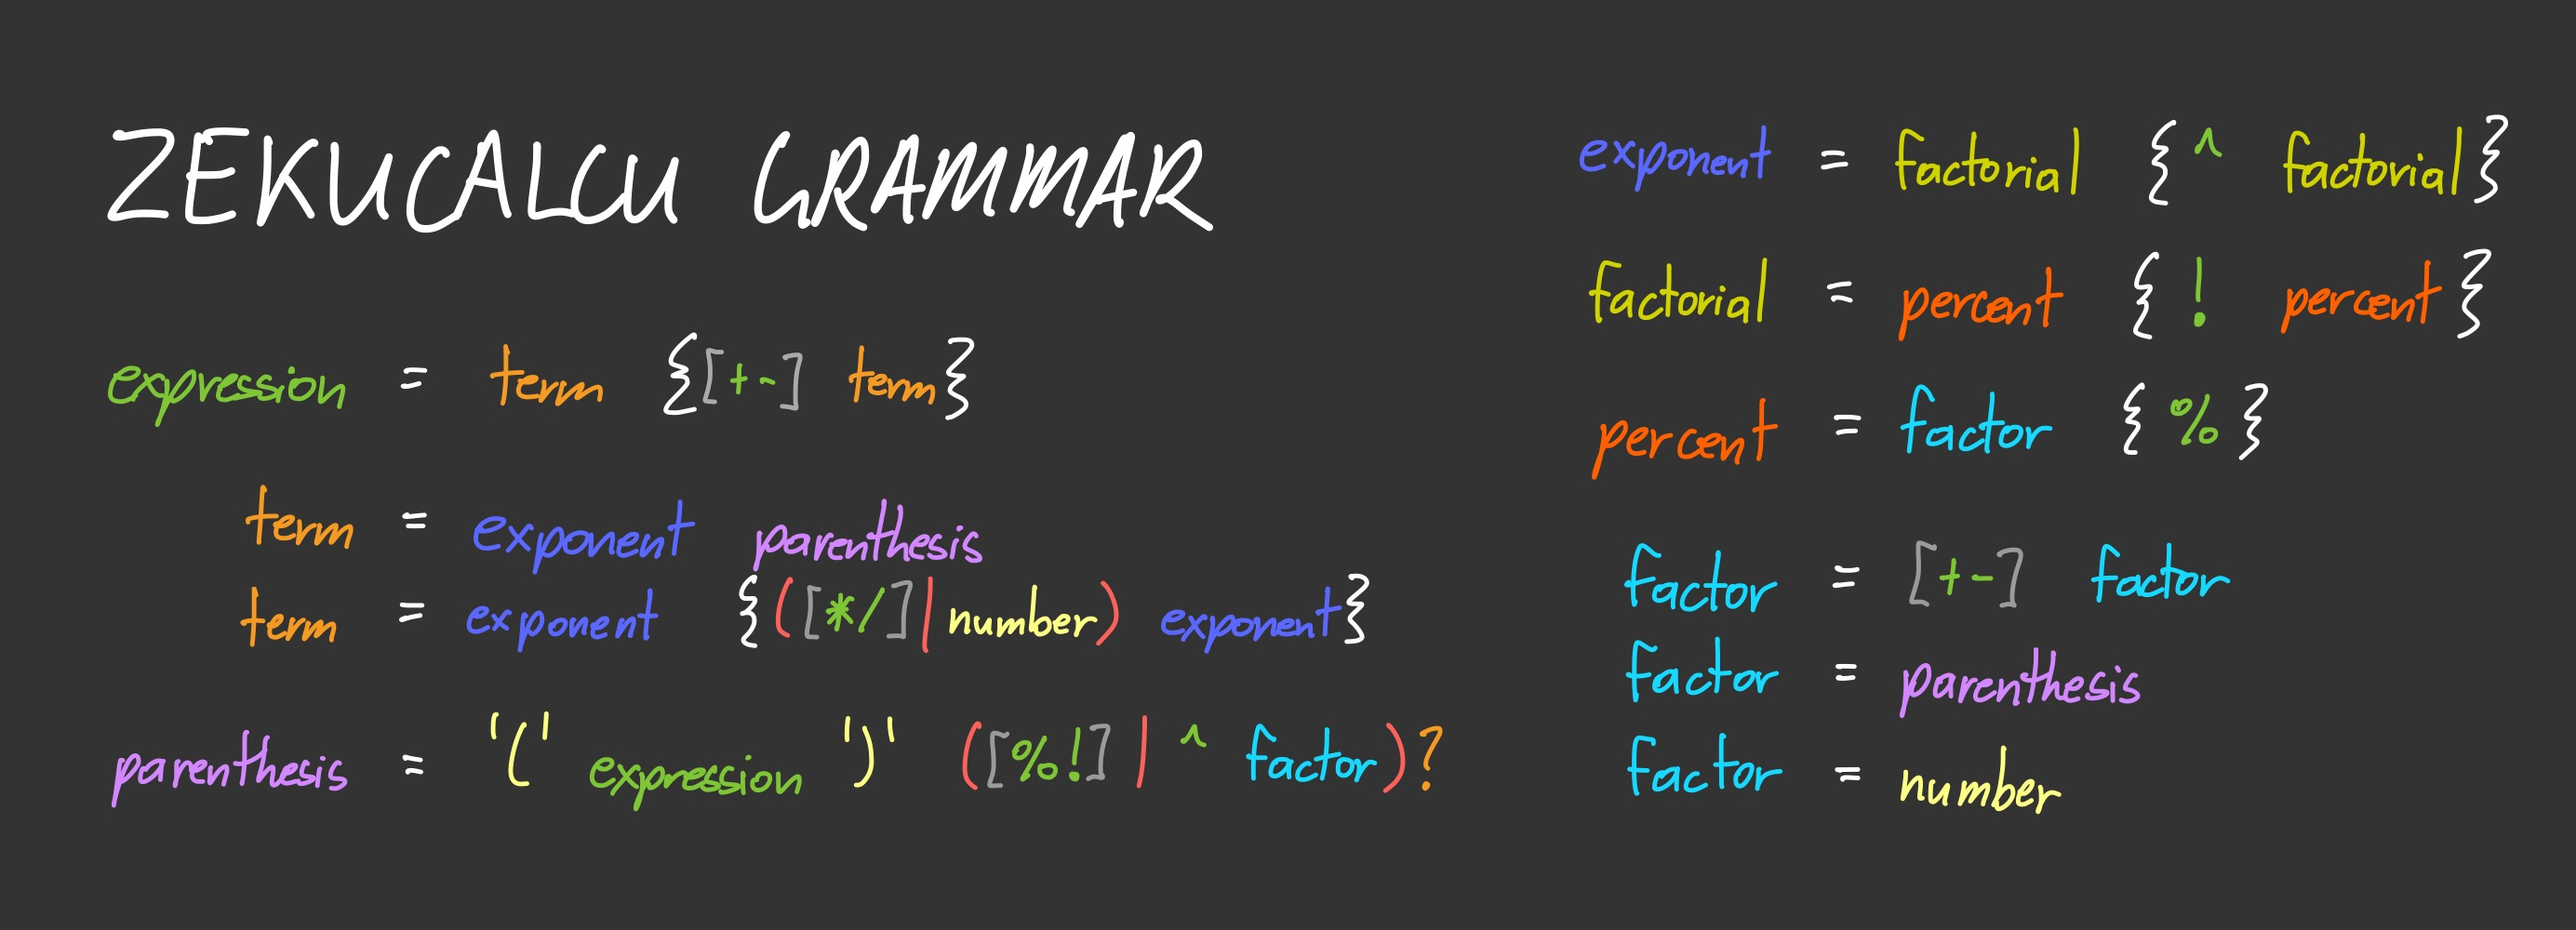
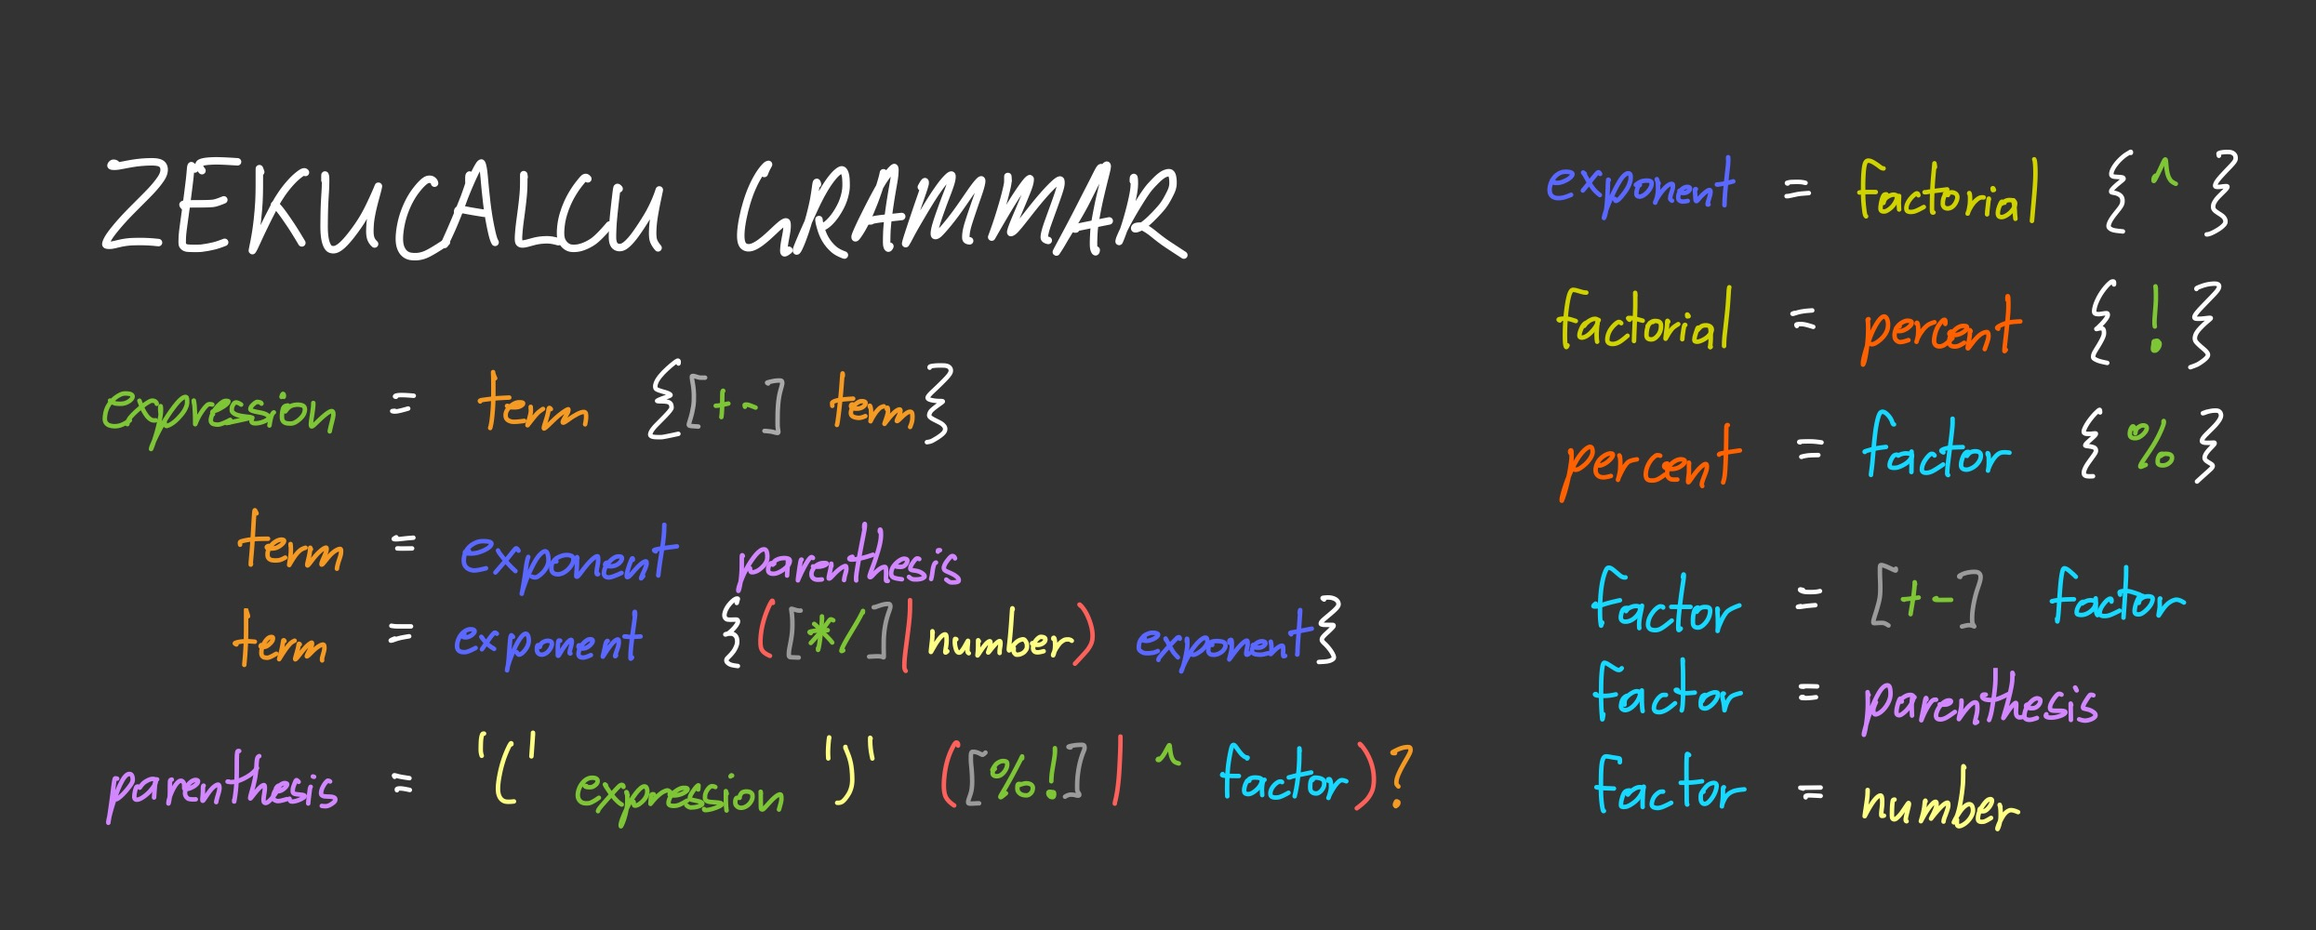
Fix zekucalcu image and add sample expr. image

diff --git a/README.md b/README.md
@@ -155,3 +155,7 @@ Obviously, we only defined three grammar rules which evaluate the four simple ma
 I didn't bother looking back at the articles/videos nor searching on how to implement parenthesis, factorial, exponent, and percent. I came up with the solutions on my own and here's the final grammar set for my recursive descent parser algorithm!
 
 ![All grammar rules on ZekuCalcu's calculator](./img/zeku-calcu-grammar.JPG "ZekuCalcu's grammar rules")
+
+And here's a sample parsed tree using the complete grammar:
+
+![A sample parsed expression tree](./img/sample-parsed-expression.JPG "Sample parsed expression")
